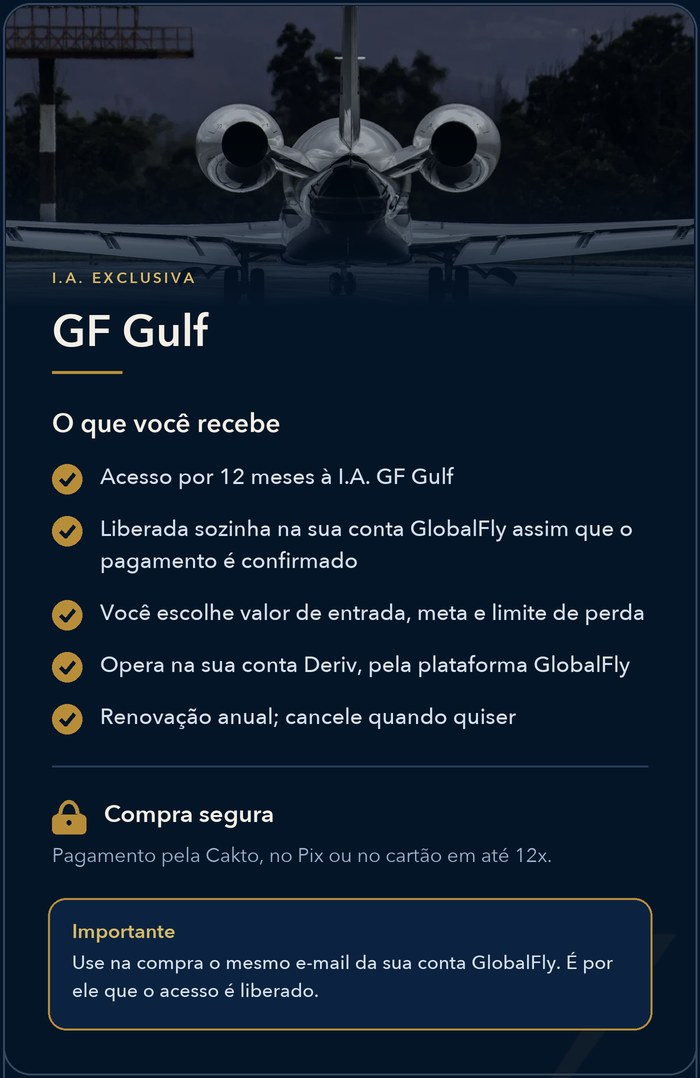
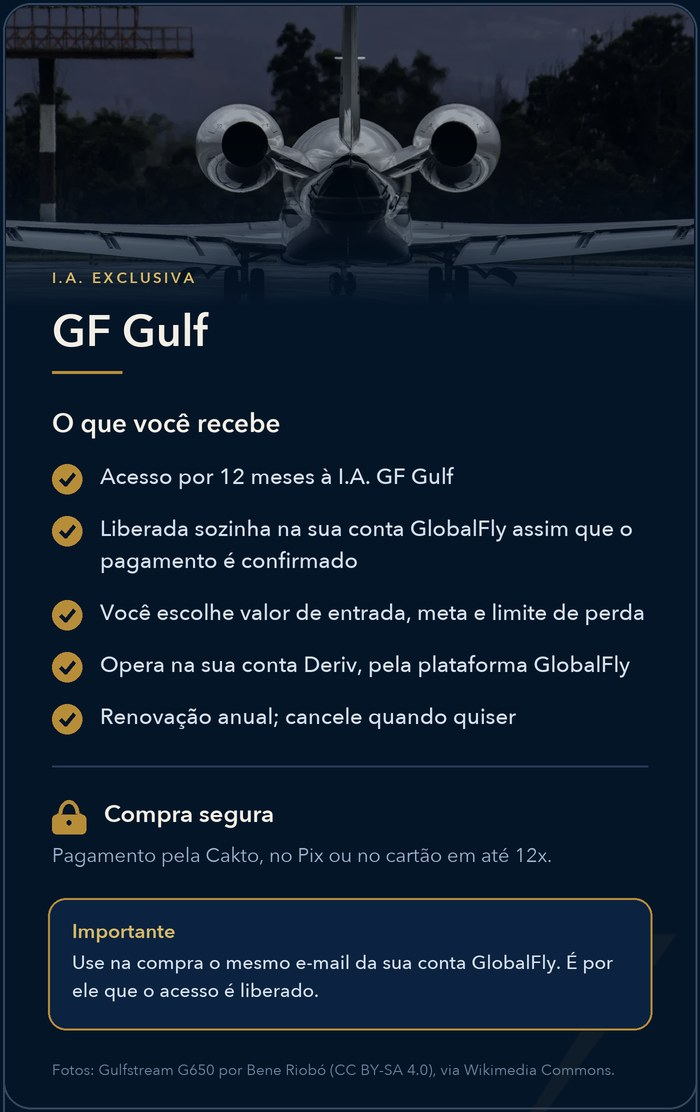
GlobalFly: crédito das fotos (CC BY-SA) no painel do checkout da Cakto

Changed region(s): [[0.0, 0.0918, 0.99, 0.9796], [0.06, 0.1224, 0.09, 0.1531]]

diff --git a/scripts/artes-checkout-globalfly.py b/scripts/artes-checkout-globalfly.py
@@ -293,7 +293,10 @@ def lateral(prod):
     for ln in quebrar(d, 'Use na compra o mesmo e-mail da sua conta GlobalFly. É por ele que o acesso é liberado.',
                       f('medium', 19), W - 2 * x0 - 40 * S):
         d.text((x0 + 20 * S, yy), ln, font=f('medium', 19), fill=(214, 225, 238)); yy += 28 * S
-    fim = y + caixa_h + 48 * S
+    yc = y + caixa_h + 30 * S
+    for ln in quebrar(d, 'Fotos: ' + prod['credito'], f('regular', 15), W - 2 * x0):
+        d.text((x0, yc), ln, font=f('regular', 15), fill=(110, 132, 158)); yc += 22 * S
+    fim = yc + 30 * S
     im = im.crop((0, 0, W, fim))
     d = ImageDraw.Draw(im)
     d.rounded_rectangle([3 * S, 3 * S, W - 3 * S, fim - 3 * S], radius=28 * S, outline=(54, 70, 92), width=2 * S)
@@ -301,7 +304,7 @@ def lateral(prod):
 
 
 PRODUTOS = {
-    'gulf': dict(nome='GF Gulf', foto='superior5.webp', fotos=1, foco=0.5, foco_lat=0.5, selo='I.A. EXCLUSIVA',
+    'gulf': dict(credito='Gulfstream G650 por Bene Riobó (CC BY-SA 4.0), via Wikimedia Commons.', nome='GF Gulf', foto='superior5.webp', fotos=1, foco=0.5, foco_lat=0.5, selo='I.A. EXCLUSIVA',
                  titulo_capa=['GF Gulf'], tam_capa=104, titulo_banner=['GF Gulf'], tam_banner=86,
                  frase='Longo alcance nos dígitos altos.',
                  itens=['Acesso por 12 meses à I.A. GF Gulf',
@@ -309,7 +312,7 @@ PRODUTOS = {
                         'Você escolhe valor de entrada, meta e limite de perda',
                         'Opera na sua conta Deriv, pela plataforma GlobalFly',
                         'Renovação anual; cancele quando quiser']),
-    'phenom': dict(nome='GF Phenom', foto='ag2.webp', fotos=1, foco=0.92, foco_capa=0.8, foco_lat=0.6, selo='I.A. EXCLUSIVA',
+    'phenom': dict(credito='Embraer Phenom 300 por Alan Wilson (CC BY-SA 2.0), via Wikimedia Commons.', nome='GF Phenom', foto='ag2.webp', fotos=1, foco=0.92, foco_capa=0.8, foco_lat=0.6, selo='I.A. EXCLUSIVA',
                    titulo_capa=['GF Phenom'], tam_capa=86, titulo_banner=['GF Phenom'], tam_banner=78,
                    frase='Jato leve, pouso preciso nos dígitos baixos.',
                    itens=['Acesso por 12 meses à I.A. GF Phenom',
@@ -317,7 +320,7 @@ PRODUTOS = {
                           'Você escolhe valor de entrada, meta e limite de perda',
                           'Opera na sua conta Deriv, pela plataforma GlobalFly',
                           'Renovação anual; cancele quando quiser']),
-    'pack': dict(nome='Pack Gulf + Phenom', fotos=2, selo='AS DUAS I.A. EXCLUSIVAS',
+    'pack': dict(credito='Gulfstream G650 por Bene Riobó (CC BY-SA 4.0) e Embraer Phenom 300 por Alan Wilson (CC BY-SA 2.0), via Wikimedia Commons.', nome='Pack Gulf + Phenom', fotos=2, selo='AS DUAS I.A. EXCLUSIVAS',
                  titulo_capa=['Pack', 'Gulf + Phenom'], tam_capa=66, titulo_banner=['Pack', 'Gulf + Phenom'], titulo_celular=['Pack', 'Gulf + Phenom'], tam_celular=104,
                  tam_banner=60, frase='As duas juntas, R$ 97 a menos.',
                  itens=['GF Gulf e GF Phenom, as duas I.A. exclusivas',
